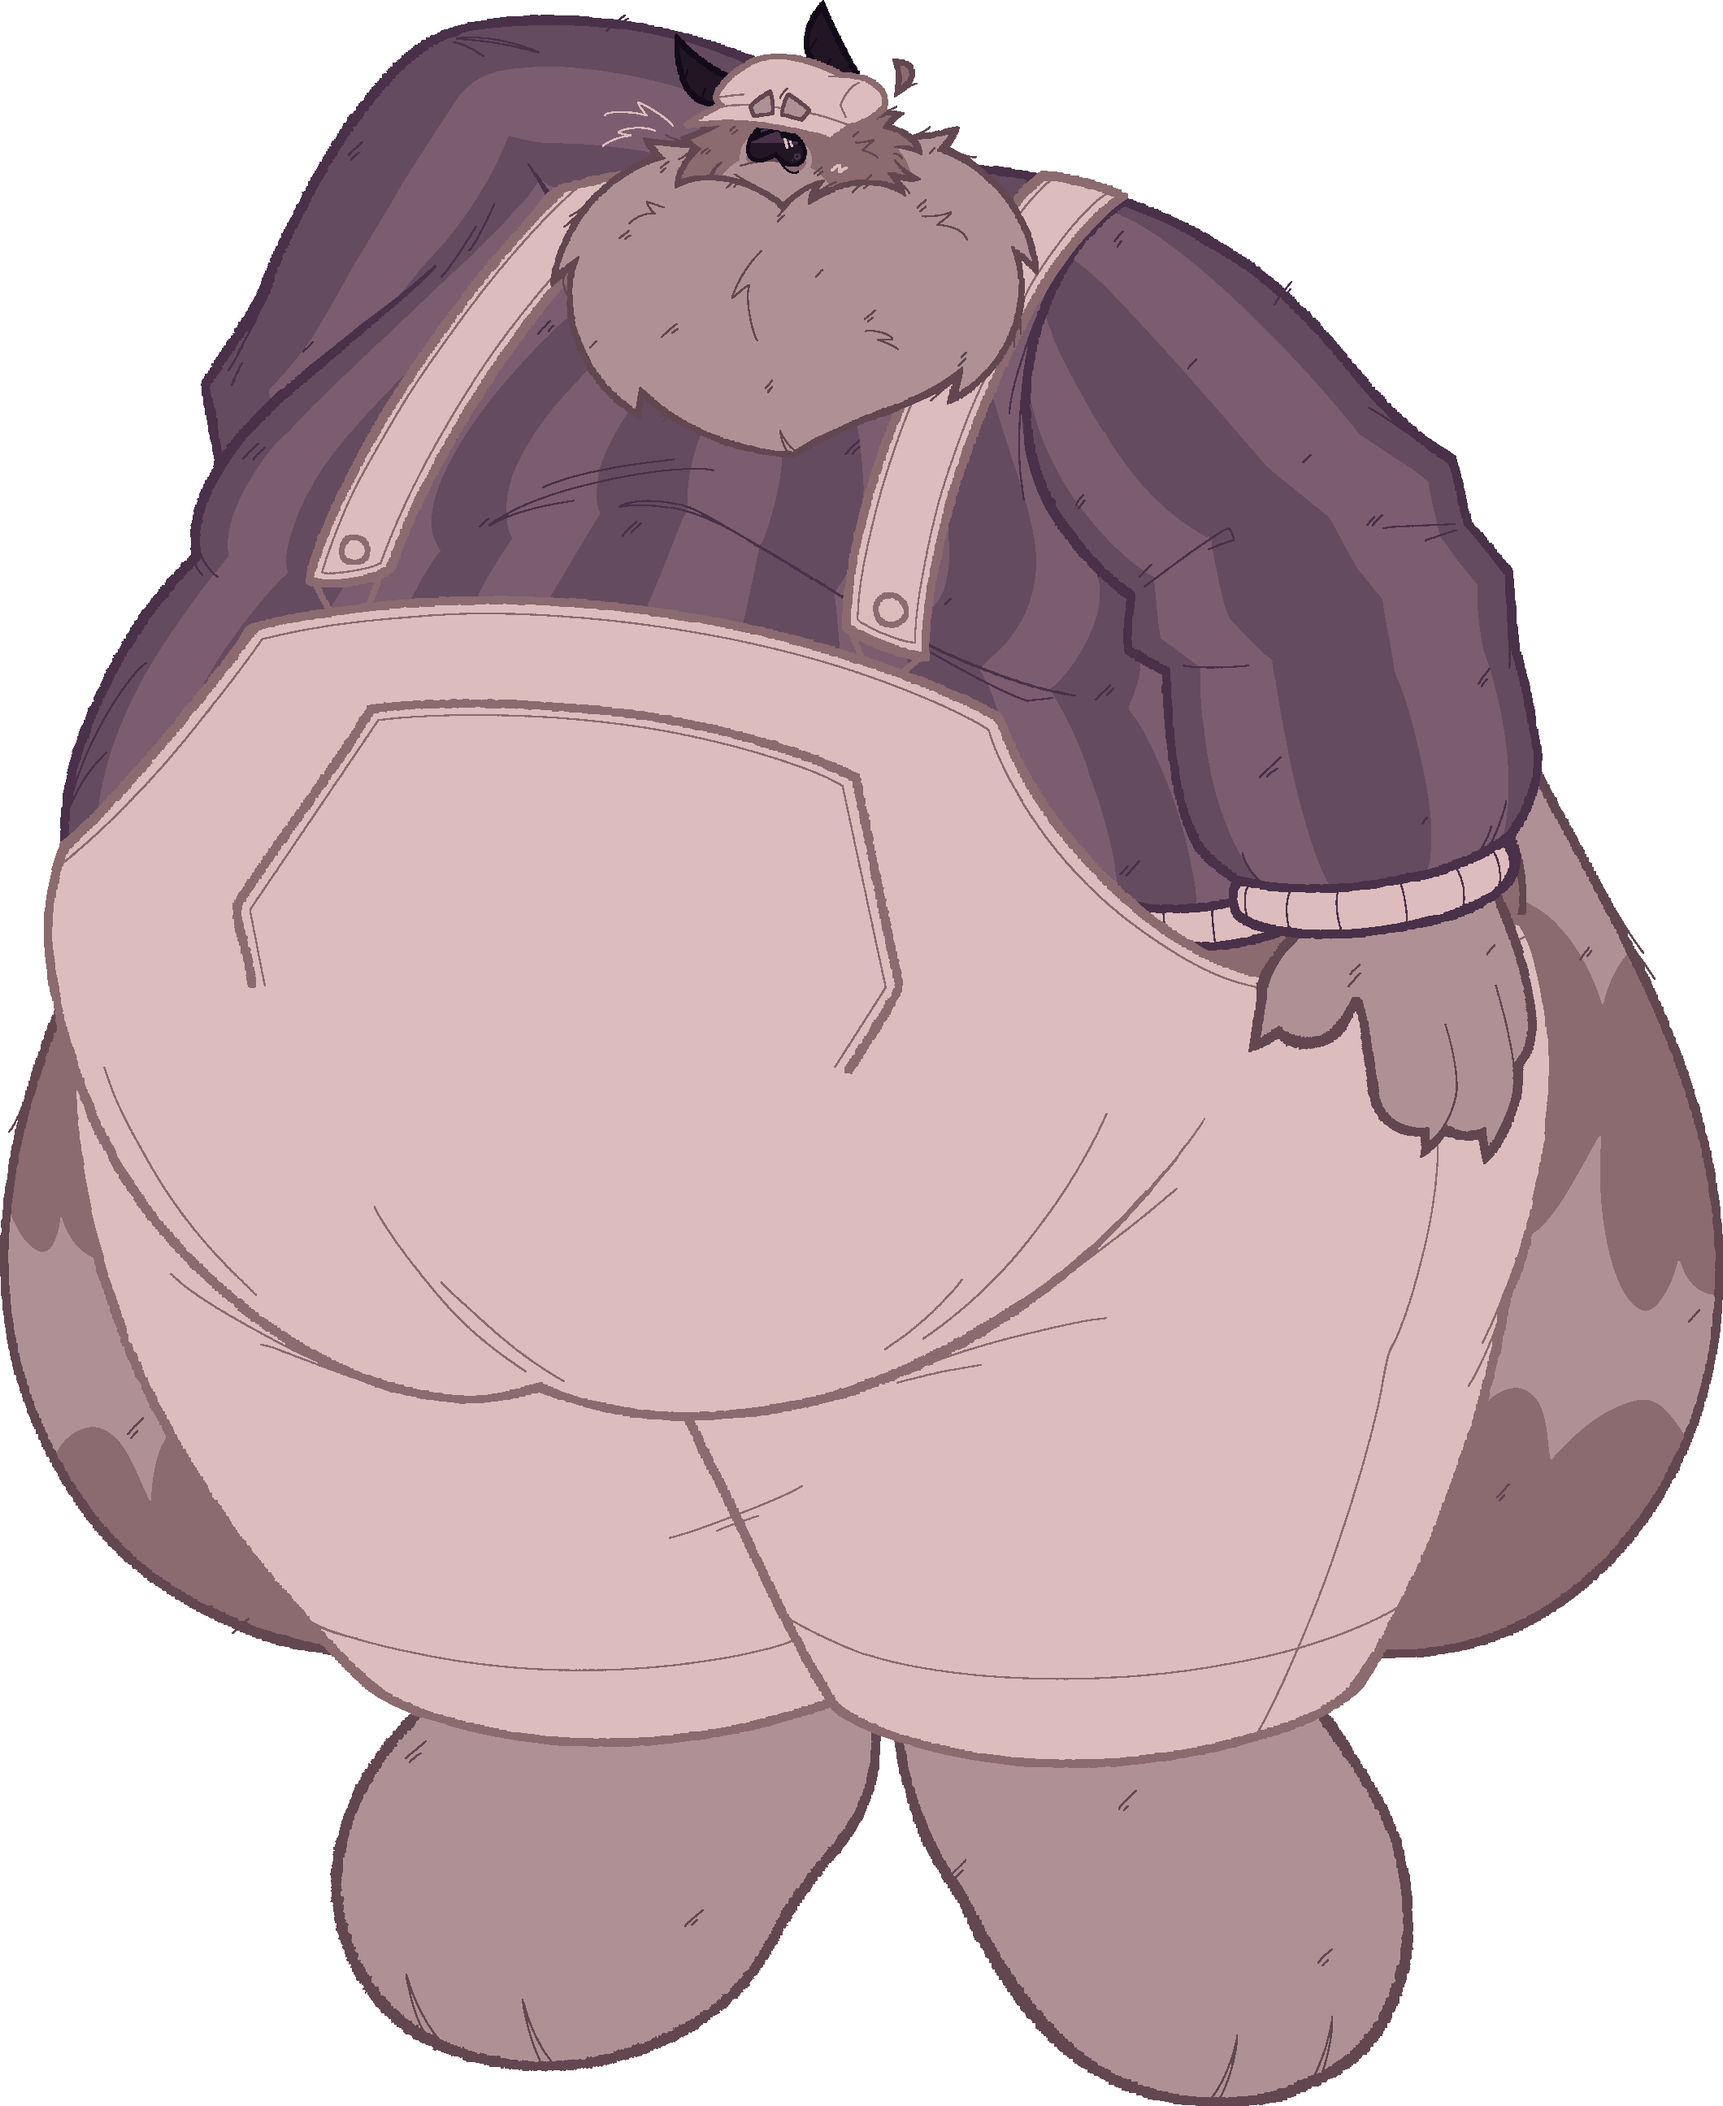
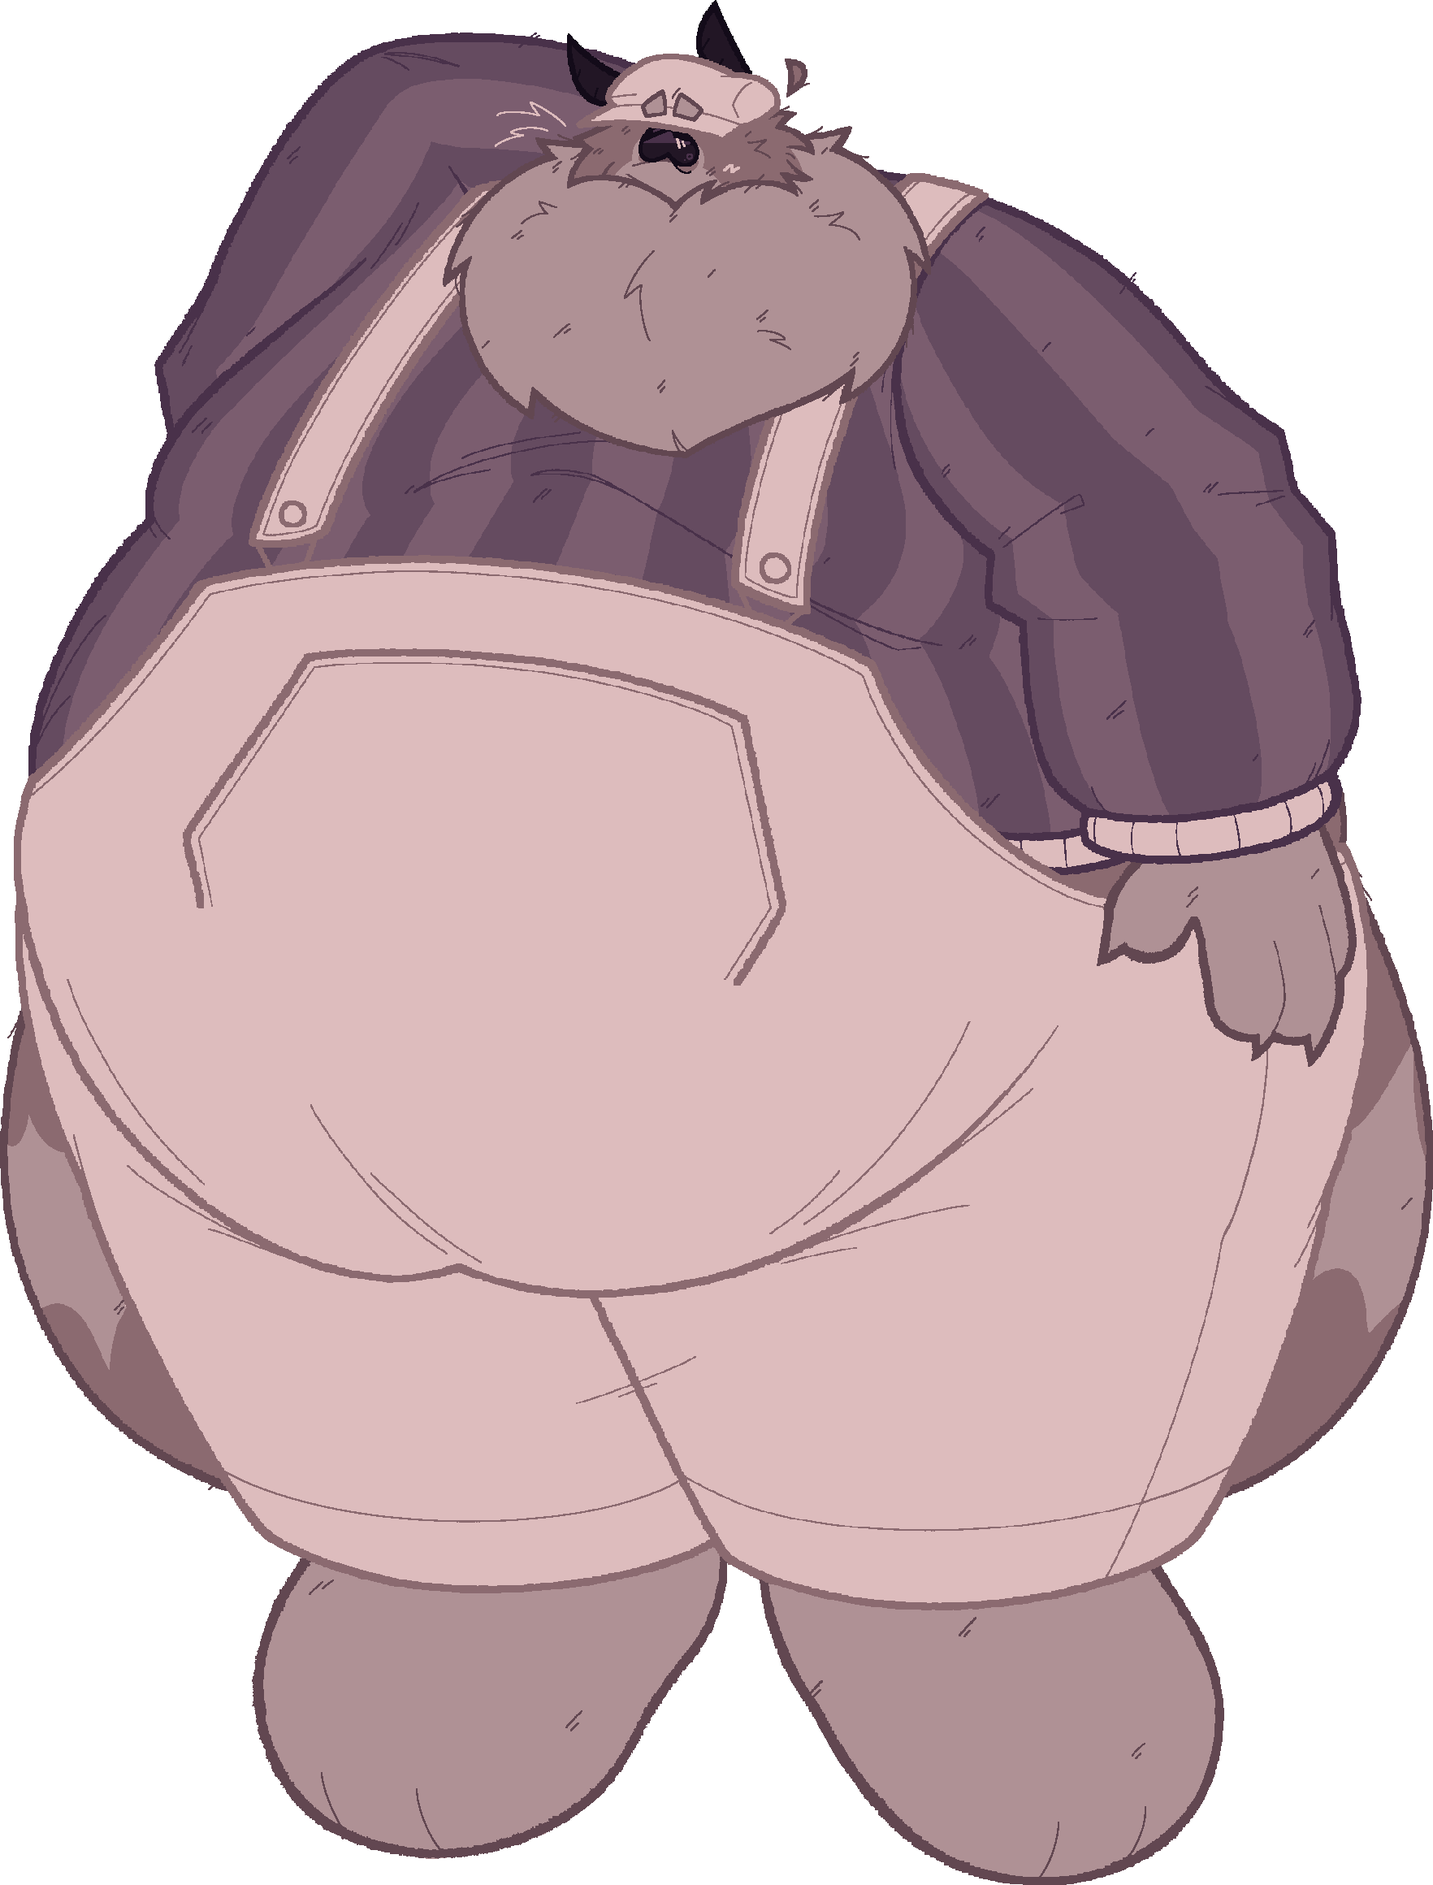
various

diff --git a/characters/vanilla/index.html b/characters/vanilla/index.html
@@ -31,7 +31,7 @@
                 <h3>info</h3>
                 <p>65 y/o (b. august 9), it/its<br>
                 <img id="flag" src="https://upload.wikimedia.org/wikipedia/commons/c/c4/Gay_male_Seven_Stripe_Flag.png" title="gay"><img id="flag" src="https://upload.wikimedia.org/wikipedia/commons/9/9e/Asexual_Pride_Flag.svg" title="asexual"><img id="flag" src="https://upload.wikimedia.org/wikipedia/commons/7/75/Nonbinary_flag.svg" title="non-binary"><br>
-                moth, 9'0", 1,500 lb</p>
+                moth, 8'0", 1,200 lb</p>
                 <br>
                 <p>anxious moth who's still learning how to calm down</p>
 				<p>very tired</p>

diff --git a/characters/ace/index.html b/characters/ace/index.html
@@ -53,6 +53,7 @@
             <img src="9.jpg"    title="hot">
             <img src="10.jpg"   title="s">
             <img src="11.jpg"   title="fruit">
+            <img src="12.jpg"   title="gay bird">
         </div>
     </body>
 </html>
